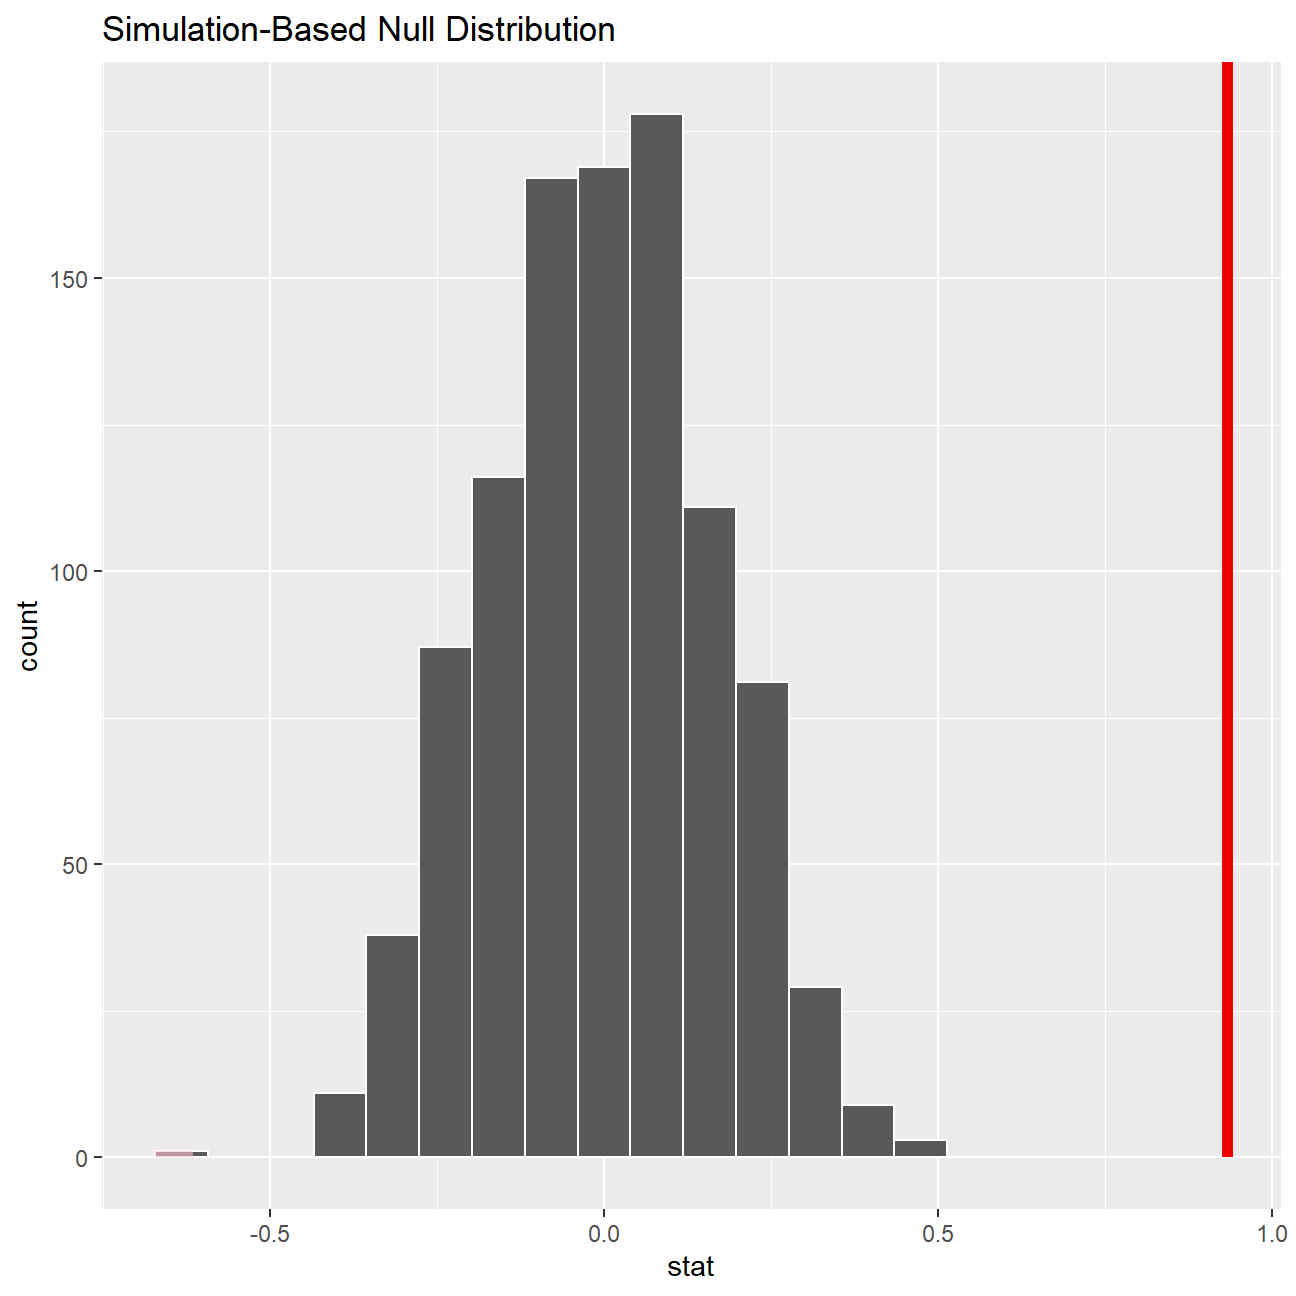
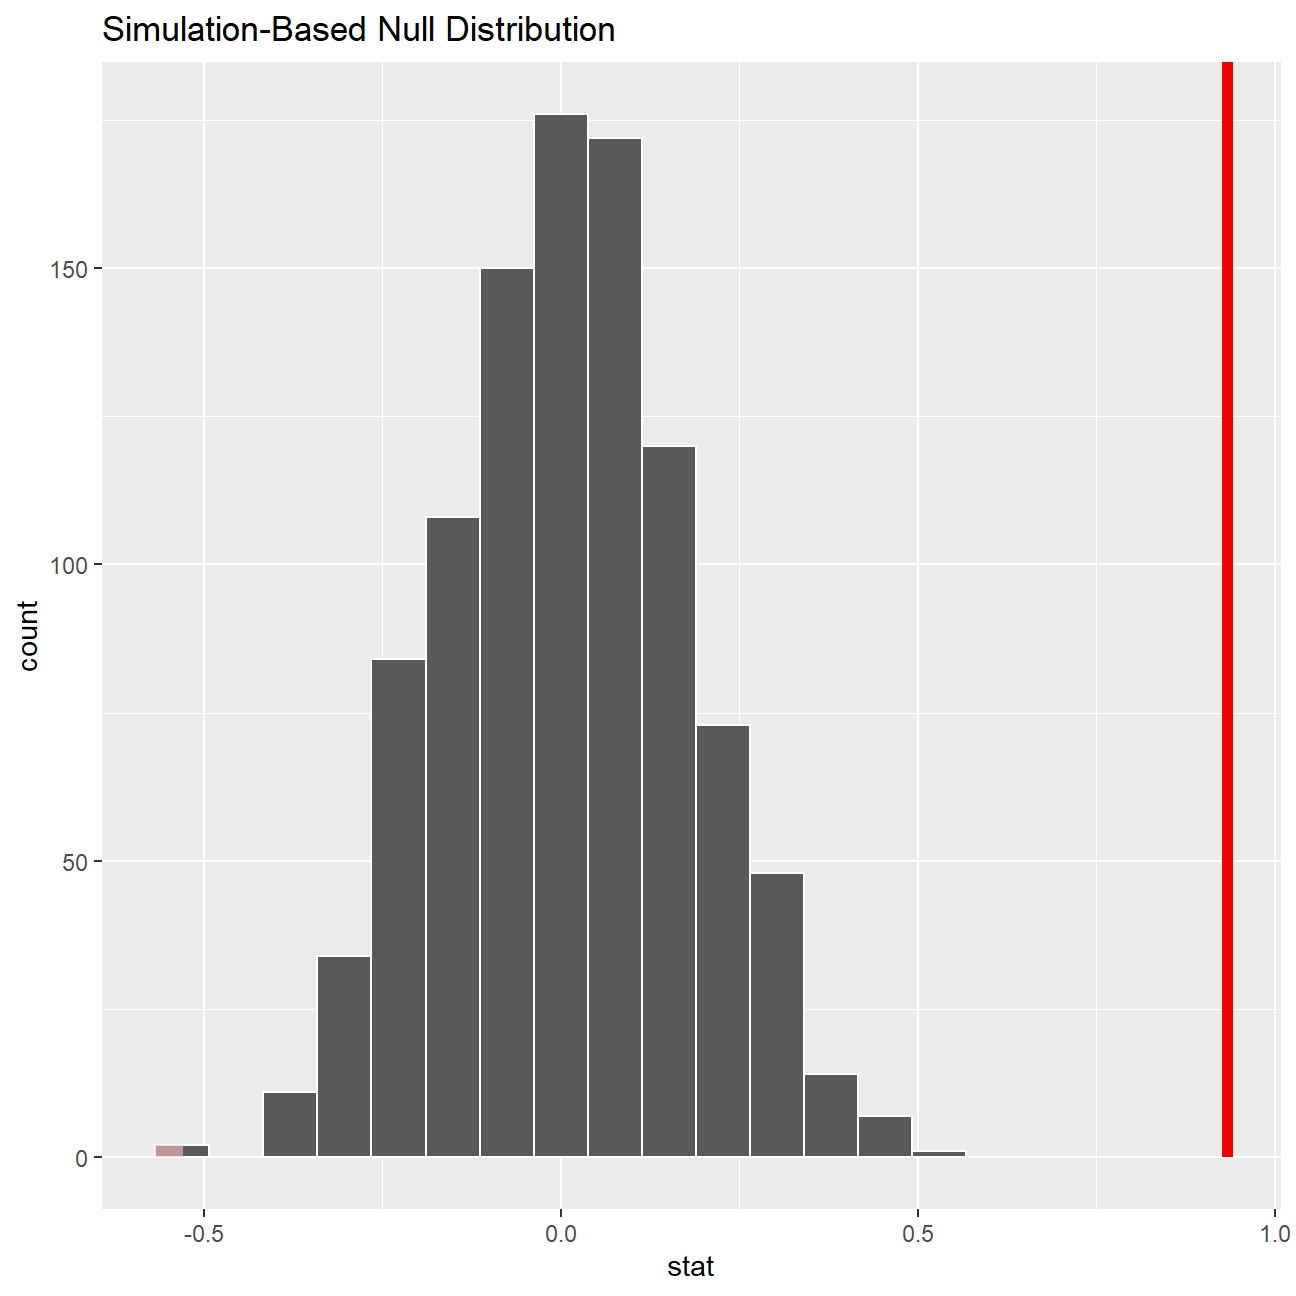
32

diff --git a/content/projects/project3/index.html b/content/projects/project3/index.html
@@ -1,27 +1,29 @@
 
 
 
-<p>title = “IMDB Ratings: Does the director play a role?”
-author = “Hugo Huere Alvarado”
-date = “2020-10-22”
+<pre><code>title = &quot;IMDB Ratings: Does the director play a role?&quot;
+author = &quot;Hugo Huere Alvarado&quot;
+date = &quot;2020-10-22&quot;
 output:
-html_document:
-theme: flatly
-highlight: zenburn
-number_sections: yes
-toc: yes
-toc_float: yes
-code_folding: show</p>
+  html_document:
+    theme : flatly
+    highlight: zenburn
+    number_sections = yes
+    toc: yes
+    toc_float: yes
+    code_folding: show</code></pre>
 <div id="imdb-ratings-differences-between-directors" class="section level1">
 <h1>IMDB ratings: Differences between directors</h1>
-<p>Recall the IMBD ratings data. I would like you to explore whether the mean IMDB rating for Steven Spielberg and Tim Burton are the same or not. I have already calculated the confidence intervals for the mean ratings of these two directors and as you can see they overlap.</p>
-<p><img src="C:/Users/hugo_/Documents/Work/MSc Finance/LBS MFA/Courses/02 Data Analytics/00 Git & RStudio/my_website_final/images/directors.png" width="100%" style="display: block; margin: auto;" /></p>
-<p>First, I would like you to reproduce this graph. You may find <code>geom_errorbar()</code> and <code>geom_rect()</code> useful.</p>
-<p>In addition, you will run a hypothesis test. You should use both the <code>t.test</code> command and the <code>infer</code> package to simulate from a null distribution, where you assume zero difference between the two.</p>
-<blockquote>
-<p>Before anything, write down the null and alternative hypotheses, as well as the resulting test statistic and the associated t-stat or p-value. At the end of the day, what do you conclude?</p>
-</blockquote>
-<p>You can load the data and examine its structure</p>
+<p>This project was done to research whether the IMDB rating for blockbuster movies were influenced by the director. Before looking at any kind of data, a null hypothesis and alternative hypothesis were set up as follows:</p>
+<div id="null-hypothesis" class="section level3">
+<h3>Null Hypothesis</h3>
+<ul>
+<li>H0 there is no difference in the mean IMDB-rating for movies produced by Steven Spielberg or Tim Burton.</li>
+</ul>
+</div>
+<div id="alternative-hypothesis" class="section level3">
+<h3>ALternative Hypothesis</h3>
+<p>First, let us load the data into R:</p>
 <pre class="r"><code>movies &lt;- read_csv(here::here(&quot;data&quot;, &quot;movies.csv&quot;))
 glimpse(movies)</code></pre>
 <pre><code>## Rows: 2,961
@@ -37,6 +39,7 @@ glimpse(movies)</code></pre>
 ## $ votes               &lt;dbl&gt; 886204, 793059, 418214, 995415, 1676169, 534658...
 ## $ reviews             &lt;dbl&gt; 3777, 2843, 1934, 2425, 5312, 3917, 1752, 1752,...
 ## $ rating              &lt;dbl&gt; 7.9, 7.7, 7.0, 8.1, 9.0, 6.5, 8.7, 7.5, 8.5, 7....</code></pre>
+</div>
 </div>
 <div id="your-r-code-and-analysis-should-go-here.-if-you-want-to-insert-a-blank-chunk-of-r-code-you-can-just-hit-ctrlcmdalti" class="section level1">
 <h1>Your R code and analysis should go here. If you want to insert a blank chunk of R code you can just hit <code>Ctrl/Cmd+Alt+I</code></h1>
@@ -111,18 +114,18 @@ obs_diff</code></pre>
   calculate(stat = &quot;diff in means&quot;, order = c(TRUE, FALSE))
 null_dist</code></pre>
 <pre><code>## # A tibble: 1,000 x 2
-##    replicate    stat
-##        &lt;int&gt;   &lt;dbl&gt;
-##  1         1  0.344 
-##  2         2  0.0161
-##  3         3  0.0915
-##  4         4  0.224 
-##  5         5  0.0837
-##  6         6 -0.129 
-##  7         7 -0.145 
-##  8         8 -0.116 
-##  9         9  0.169 
-## 10        10 -0.207 
+##    replicate     stat
+##        &lt;int&gt;    &lt;dbl&gt;
+##  1         1 -0.194  
+##  2         2 -0.00207
+##  3         3  0.102  
+##  4         4 -0.0462 
+##  5         5  0.0395 
+##  6         6  0.0525 
+##  7         7  0.112  
+##  8         8 -0.106  
+##  9         9 -0.148  
+## 10        10  0.0785 
 ## # ... with 990 more rows</code></pre>
 <pre class="r"><code>ggplot(data = null_dist, aes(x = stat)) +
   geom_histogram()</code></pre>
